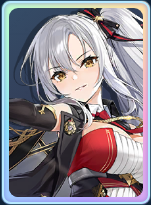
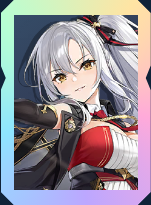
docs: refresh v0.8.9 QA evidence and verification handoff

diff --git a/docs/qa/README.md b/docs/qa/README.md
@@ -1,19 +1,22 @@
-# v0.8.9 — real-art portrait and profile evidence
+# v0.8.9 — independent QA correction evidence
 
-Captured from the actual application with live catalogs and original game artwork in [passing CI 43366734271](https://github.com/Avalon1230/avalon-azurlane/actions/runs/43366734271), commit `382fe99721ee249b0649c8b2c83317a25e002e40`. No fixture image/catalog routing was used in these six live sessions. Mobile galleries were scrolled into view and required to finish loading before capture.
+Captured from the actual application using live catalogs and original game artwork in [passing CI 43561382550](https://github.com/Avalon1230/avalon-azurlane/actions/runs/43561382550), implementation commit `b0685e7e7cb65a65e0050381ed09e15965ff8a1d`. All ten live desktop/mobile sessions passed without fixture catalog or image routing. Each session requires loaded profile, gallery and roster artwork. These captures supersede the earlier v0.8.9 evidence.
 
-| Viewport | PR Neptune | DR Drake | Hiryuu META |
-| --- | --- | --- | --- |
-| Desktop, 1280px | ![PR desktop](live-pr-1280-portrait.png) | ![DR desktop](live-dr-1280-portrait.png) | ![META desktop](live-meta-1280-portrait.png) |
-| Mobile, 390px | ![PR mobile](live-pr-390-portrait.png) | ![DR mobile](live-dr-390-portrait.png) | ![META mobile](live-meta-390-portrait.png) |
+| Ship / identity | Desktop portrait | Mobile portrait | Desktop roster | Mobile roster |
+| --- | --- | --- | --- | --- |
+| Neptune — PR | ![Desktop portrait](live-pr-1280-portrait.png) | ![Mobile portrait](live-pr-390-portrait.png) | ![Desktop roster](live-pr-1280-roster.png) | ![Mobile roster](live-pr-390-roster.png) |
+| Drake — DR | ![Desktop portrait](live-dr-1280-portrait.png) | ![Mobile portrait](live-dr-390-portrait.png) | ![Desktop roster](live-dr-1280-roster.png) | ![Mobile roster](live-dr-390-roster.png) |
+| Hunter META — Elite | ![Desktop portrait](live-meta-elite-1280-portrait.png) | ![Mobile portrait](live-meta-elite-390-portrait.png) | ![Desktop roster](live-meta-elite-1280-roster.png) | ![Mobile roster](live-meta-elite-390-roster.png) |
+| Hiryuu META — Super Rare | ![Desktop portrait](live-meta-1280-portrait.png) | ![Mobile portrait](live-meta-390-portrait.png) | ![Desktop roster](live-meta-1280-roster.png) | ![Mobile roster](live-meta-390-roster.png) |
+| Enterprise — ordinary | ![Desktop portrait](live-ordinary-1280-portrait.png) | ![Mobile portrait](live-ordinary-390-portrait.png) | ![Desktop roster](live-ordinary-1280-roster.png) | ![Mobile roster](live-ordinary-390-roster.png) |
 
-These are untouched application screenshot crops, not generated art. The 7px outer frame area is separate from the image. PR uses gold, DR a prismatic surround, and META a dark/copper treatment. Profile and roster geometry is also checked in the interaction tests. Original artwork rights remain with the game rights holders; these small captures document implementation QA, not a reusable artwork asset pack.
+PR uses a raised crown and stepped feet; DR uses a beveled octagon with notched side rails. Elite META uses violet chamfered framing and background, while Super Rare META uses copper/gold rails, raised end caps and an ember background. META identity and rarity are checked against pinned source IDs, not names. Ordinary Enterprise retains its existing unornamented treatment. The CSS mask excludes the complete artwork rectangle; browser tests check the mask, padding, artwork bounds and distinct PR/DR outlines.
 
[1 lines of base64/hex data omitted]
+Desktop Equipment and Skills panels span the width below the summary, removing the long empty column below Sources. Full-width geometry is asserted for every desktop live session. Mobile remains one column. Portraits, roster crops and representative full desktop/mobile profiles were visually inspected. All screenshots are actual application captures, not generated artwork. Artwork rights remain with the game rights holders.
 
-Sources: [Neptune](https://raw.githubusercontent.com/iujab/azurlane-images/main/thumbnails/29901.png), [Drake](https://raw.githubusercontent.com/iujab/azurlane-images/main/thumbnails/29904.png), [Hiryuu META](https://raw.githubusercontent.com/Fernando2603/AzurLane/main/images/skin/9707010/shipyard.png). Full galleries continue using the existing source-mapped artwork loader.
[1 lines of base64/hex data omitted]
 
-Visual inspection covered the portrait treatments and representative loaded desktop/mobile profiles, including the combined controls and deltas. Independent QA is still required; these captures do not validate battle performance.
+Verification: 273 Node tests, 63 responsive cases, 10 combat sessions, four fixture research sessions, ten live-art sessions, syntax/generated-data and pinned combat/research/META source checks passed. Independent QA remains required; PR #32 is not merged. These checks do not establish game-battle performance.
 
 ---
 

diff --git a/docs/PROJECT_STATUS.md b/docs/PROJECT_STATUS.md
@@ -10,8 +10,8 @@ _Last updated: 2026-11-14 (Asia/Manila). This is the permanent cross-conversatio
 - Long Equipment/Skills panels now follow the two-column summary at full desktop width, with compact internal two-column lists. The top identity/loadout/artwork layout is unchanged. Mobile remains one column.
 - Missing Fate records now say “We don’t have Fate Simulation details for this ship yet.” Dev-locked Fate still explains Dev 30; absent source data is never promoted to a claim that the game feature is unreleased.
 - Expanded regression coverage: 273 Node tests; four research app sessions now check both META rarities and ordinary ships in roster/profile, actual PR/DR silhouette differences, masked artwork clearance and unchanged ordinary framing. Ten live desktop/mobile sessions cover Neptune, Drake, Hiryuu META (Super Rare), Hunter META (Elite) and Enterprise (ordinary), including loaded portrait, gallery, roster captures and full-width detail assertions. New CI checks validate the pinned META rarity extract against the upstream source.
-- Local checks: 273/273 Node tests, 63 responsive cases, 10 combat sessions, four research sessions, syntax/generated data passed. Remote source checks and refreshed live artwork evidence are awaiting this correction's CI. Calculators, research data, comparisons, acquisition tracking, saved equipment, six-slot loadouts and PR #31 architecture are preserved.
-- Next: inspect refreshed real-art evidence and return the new head for independent QA. No merge or deployment is authorized.
+- Local checks: 273/273 Node tests, 63 responsive cases, 10 combat sessions, four research sessions, syntax/generated data passed. Implementation `b0685e7e7cb65a65e0050381ed09e15965ff8a1d` passed [CI 43561382550](https://github.com/Avalon1230/avalon-azurlane/actions/runs/43561382550), including all pinned source checks and ten live-art sessions. Refreshed portrait/roster captures and representative full desktop/mobile profiles were visually inspected; see [evidence](qa/README.md). Calculators, research data, comparisons, acquisition tracking, saved equipment, six-slot loadouts and PR #31 architecture are preserved.
+- Next: independent QA of the correction and evidence commits on PR #32; consult the PR head and its CI for the final delivery SHA. No merge or deployment is authorized.
 
 ## Active development — v0.8.9 ship profile UX (2026-11-13)
 
@@ -259,5 +259,3 @@ When a new conversation starts: retrieve relevant prior decisions, inspect lates
 
 - Confirm images for New Jersey (`10517`), Amagi(CV) (`30715`), and other static/Live2D skins in a browser. Static alternatives may not exist for every source painting; do not claim visual completeness without review.
 - On mobile and desktop, confirm artwork lightbox opens, closes and enters/exits fullscreen; the base ship portrait must never change with skin selection.
-
-
